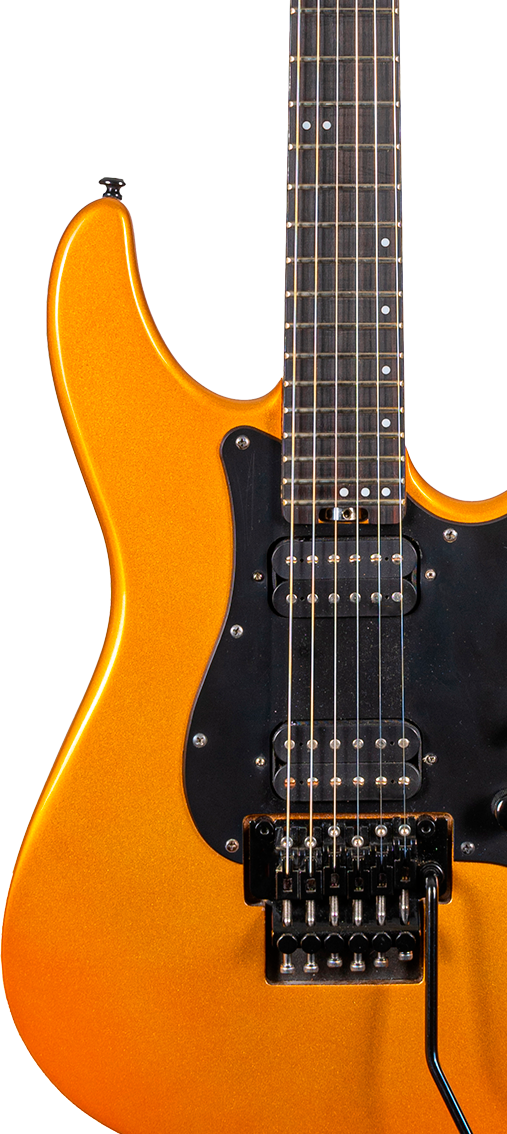
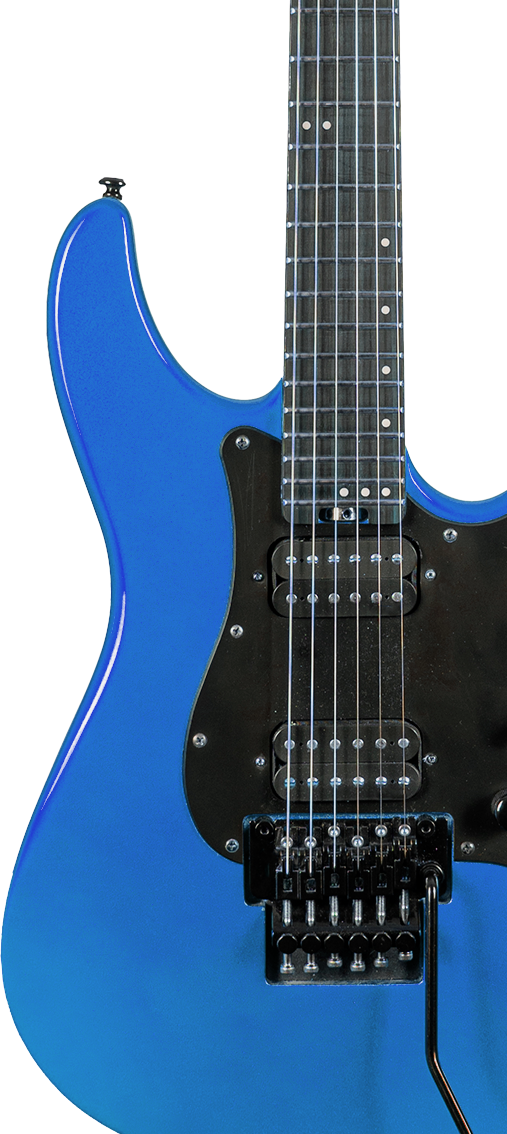
change primary color

diff --git a/src/style.css b/src/style.css
@@ -89,7 +89,7 @@
   --bs-danger: #dc3545;
   --bs-light: #f8f9fa;
   --bs-dark: #262626;
-  --bs-primary-rgb: 3, 64, 216;
+  --bs-primary-rgb: 32, 112, 200;
   --bs-secondary-rgb: 108, 117, 125;
   --bs-success-rgb: 25, 135, 84;
   --bs-info-rgb: 13, 202, 240;
@@ -157,7 +157,7 @@ body {
   font-family: "Outfit", sans-serif;
   font-weight: 900;
   line-height: 1.2;
-  color:#032f9e;
+  color: #2070c8 ;
 }
 
 h1, .h1 {
@@ -317,11 +317,11 @@ button:not(:disabled),
 
 
 .container-xl {
-  --bs-gutter-x: 1.5rem;
+  --bs-gutter-x: 1rem;
   --bs-gutter-y: 0;
   width: 100%;
-  padding-right: calc(var(--bs-gutter-x) * 0.5);
-  padding-left: calc(var(--bs-gutter-x) * 0.5);
+  padding-right: calc(var(--bs-gutter-x) * 0.1);
+  padding-left: calc(var(--bs-gutter-x) * 0.1);
   margin-right: auto;
   margin-left: auto;
 }

diff --git a/src/components/Header.vue b/src/components/Header.vue
@@ -25,7 +25,7 @@ import { computed } from 'vue';
             <div class="row justify-content-center justify-content-md-between">
                 <div class="col-8 col-md-3">
                     <a href="index.html">
-                        <img class="img-fluid" src="/img/logo.svg" alt="imagen logo">
+                        <img class="img-fluid" src="/img/LOGO.png" alt="imagen logo">
                     </a>
                 </div>
                 <nav class="col-md-6 a mt-5 d-flex align-items-start justify-content-end">

diff --git a/index.html b/index.html
@@ -4,7 +4,7 @@
     <meta charset="UTF-8" />
     <link rel="icon" type="image/svg+xml" href="/guitar-solid.ico" />
     <meta name="viewport" content="width=device-width, initial-scale=1.0" />
-    <title>GuitarLA - Vue</title>
+    <title>GuitarSI - Vue</title>
     <link rel="preconnect" href="https://fonts.googleapis.com">
     <link rel="preconnect" href="https://fonts.gstatic.com" crossorigin>
     <link href="https://fonts.googleapis.com/css2?family=Outfit:wght@400;700;900&display=swap" rel="stylesheet"> 

diff --git a/src/components/Footer.vue b/src/components/Footer.vue
@@ -2,7 +2,7 @@
 <template>
     <footer class="bg-dark mt-5 py-5">
         <div class="container-xl">
-            <p class="text-white text-center fs-4 mt-4 m-md-0">GuitarLA - Todos los derechos Reservados</p>
+            <p class="text-white text-center fs-4 mt-4 m-md-0">GuitarSI - Todos los derechos Reservados</p>
         </div>
     </footer>
 </template>
